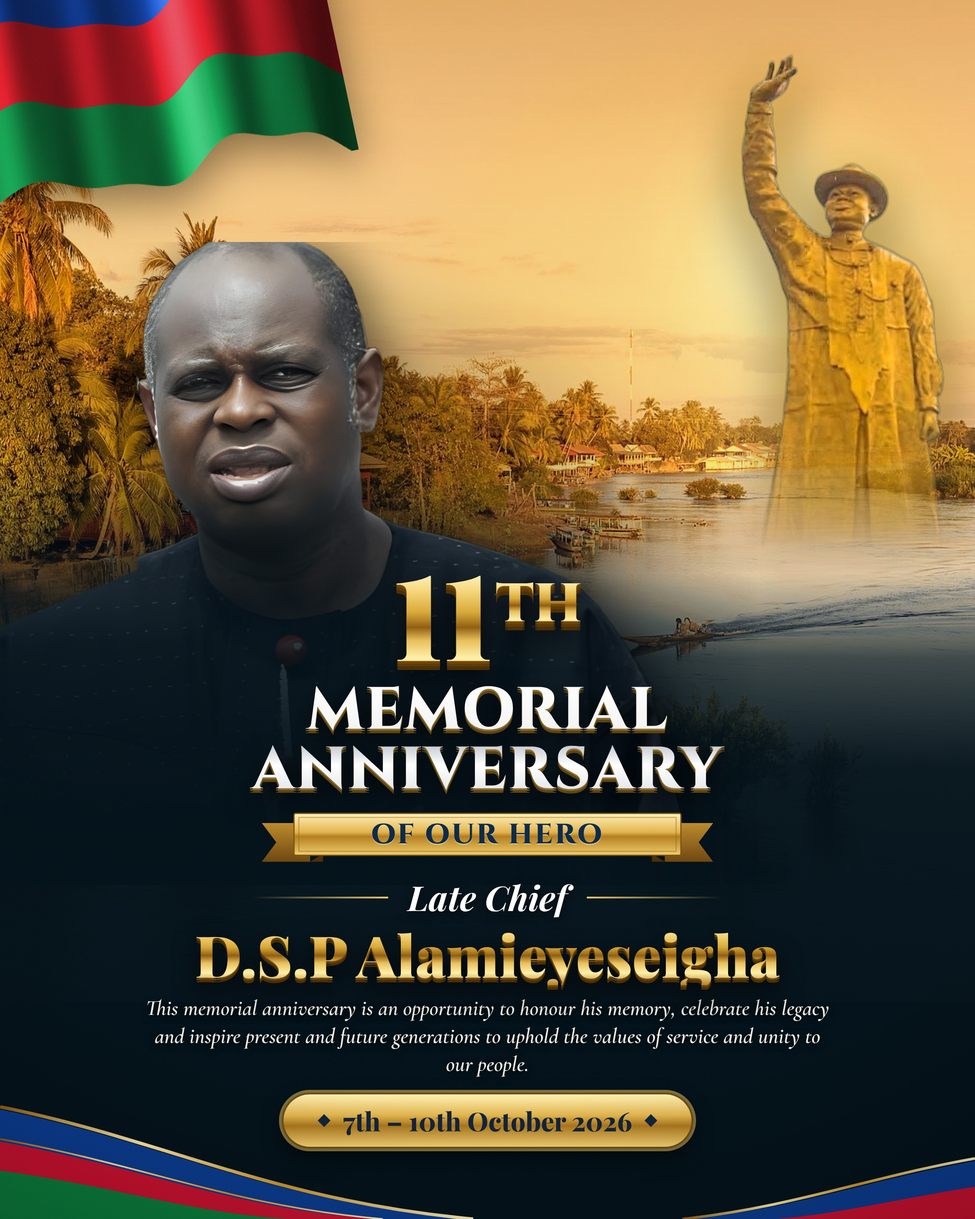
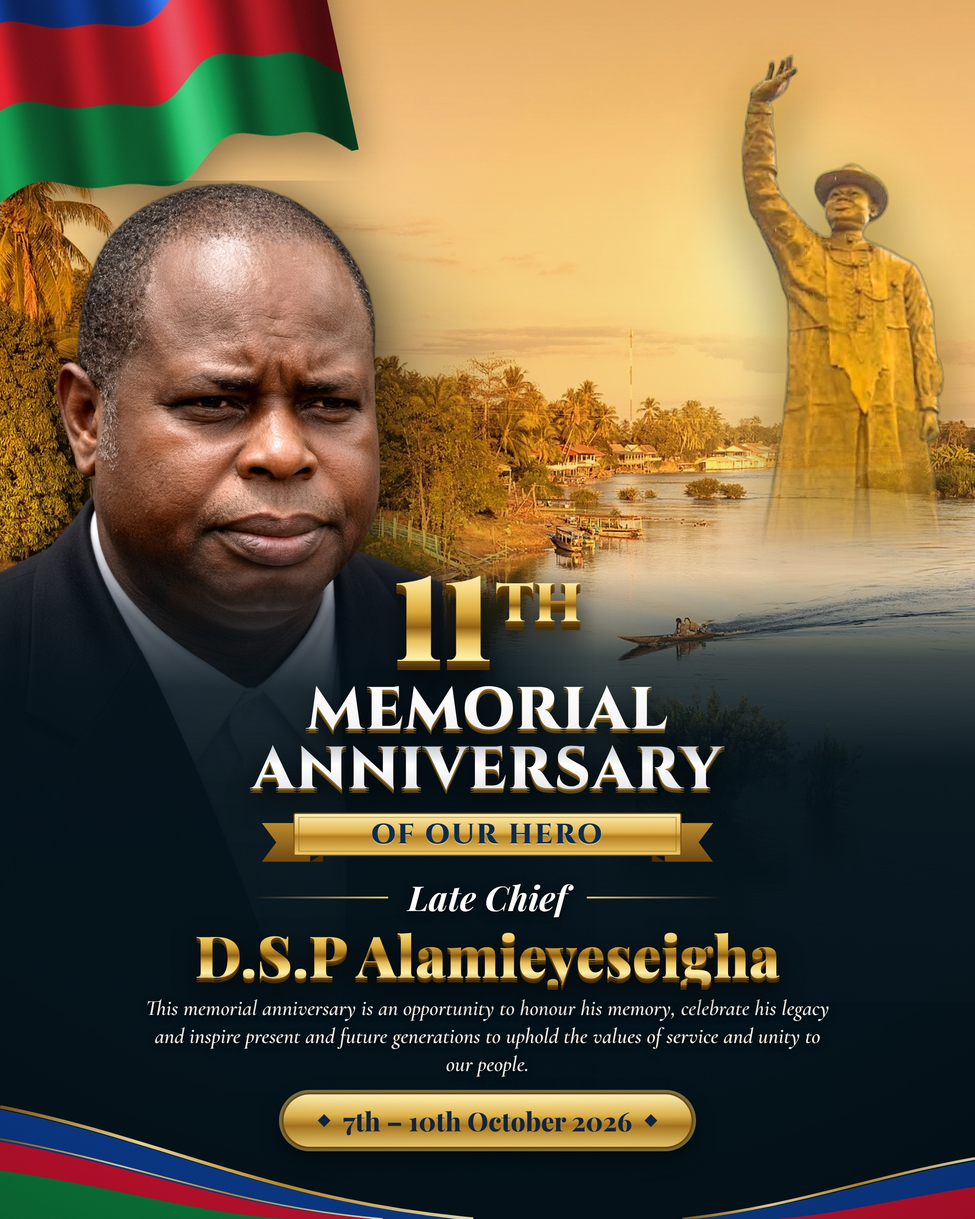
Use suited portrait supplied by the client
Claude-Session: https://claude.ai/code/session_016prf93qTiMKwy5VAqtTzSm

Changed region(s): [[0.0, 0.1244, 0.7444, 0.5911]]

diff --git a/designs/alamieyeseigha-11th-memorial/source/poster.html b/designs/alamieyeseigha-11th-memorial/source/poster.html
@@ -28,12 +28,12 @@ html,body{width:1080px;height:1350px;background:#05141c;overflow:hidden}
 .statue-mask{-webkit-mask-image:linear-gradient(180deg,#000 66%,transparent 92%);mask-image:linear-gradient(180deg,#000 66%,transparent 92%)}
 
 /* portrait */
-.portrait{left:-124px;top:268px;width:894px;
-  -webkit-mask-image:linear-gradient(180deg,#000 86%,transparent 100%);mask-image:linear-gradient(180deg,#000 86%,transparent 100%);
+.portrait{left:0px;top:200px;width:490px;
+  -webkit-mask-image:linear-gradient(180deg,#000 80%,transparent 100%);mask-image:linear-gradient(180deg,#000 80%,transparent 100%);
   filter:drop-shadow(10px 0 26px rgba(0,0,0,.55)) contrast(1.05) brightness(1.03)}
-.pshade{left:-140px;top:520px;width:980px;height:460px;background:linear-gradient(180deg,rgba(4,18,26,0) 0%,rgba(4,18,26,.55) 22%,rgba(4,18,26,.86) 42%,rgba(4,18,26,.95) 62%,#04121a 100%);-webkit-mask-image:linear-gradient(90deg,#000 72%,transparent 100%);mask-image:linear-gradient(90deg,#000 72%,transparent 100%)}
-.pwarm{left:-124px;top:268px;width:894px;height:683px;background:radial-gradient(500px 520px at 640px 160px,rgba(255,180,80,.45),transparent 70%);mix-blend-mode:soft-light;-webkit-mask-image:url(portrait_hb.png);mask-image:url(portrait_hb.png);-webkit-mask-size:100% 100%;mask-size:100% 100%}
-.halo{left:-100px;top:280px;width:860px;height:640px;background:radial-gradient(closest-side,rgba(3,14,20,.55),transparent);filter:blur(20px)}
+.pshade{left:-60px;top:590px;width:720px;height:620px;background:linear-gradient(180deg,rgba(4,18,26,0) 0%,rgba(4,18,26,.6) 14%,rgba(4,18,26,.9) 28%,rgba(4,18,26,.97) 45%,#04121a 100%);-webkit-mask-image:linear-gradient(90deg,#000 82%,transparent 100%);mask-image:linear-gradient(90deg,#000 82%,transparent 100%)}
+.pwarm{left:0px;top:200px;width:490px;height:999px;background:radial-gradient(380px 460px at 430px 180px,rgba(255,180,80,.45),transparent 70%);mix-blend-mode:soft-light;-webkit-mask-image:url(portrait_suit.png);mask-image:url(portrait_suit.png);-webkit-mask-size:100% 100%;mask-size:100% 100%}
+.halo{left:20px;top:200px;width:580px;height:640px;background:radial-gradient(closest-side,rgba(3,14,20,.55),transparent);filter:blur(20px)}
 .rim{left:-40px;top:96px;width:720px;height:560px;background:radial-gradient(400px 500px at 760px 200px,rgba(255,190,90,.35),transparent 70%);mix-blend-mode:soft-light;pointer-events:none}
 
 /* bottom swoosh in flag colours */
@@ -74,7 +74,7 @@ html,body{width:1080px;height:1350px;background:#05141c;overflow:hidden}
   <img class="abs flag" src="flag.png">
   <div class="abs shade"></div>
   <div class="abs halo"></div>
-  <img class="abs portrait" src="portrait_hb.png">
+  <img class="abs portrait" src="portrait_suit.png">
   <div class="abs pwarm"></div>
   <div class="abs pshade"></div>
 
